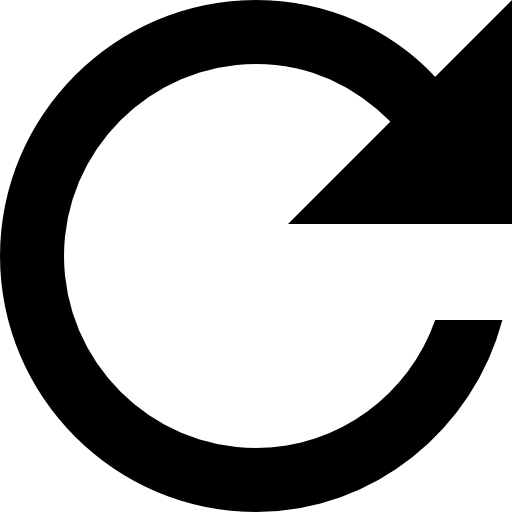
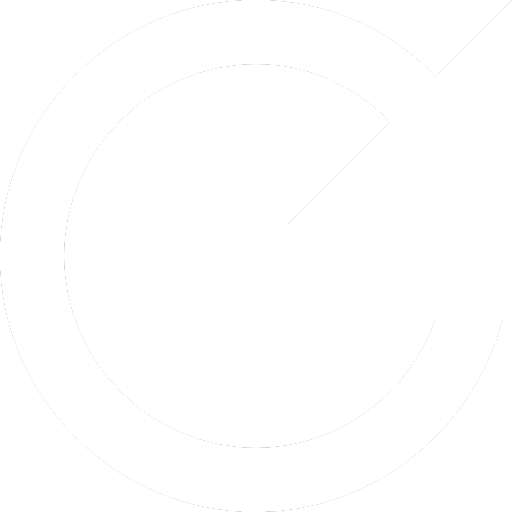
Всё та же кнопка

diff --git a/styles.css b/styles.css
@@ -188,15 +188,11 @@ body {
   content: "";
   width: 25px;
   height: 25px;
-  -webkit-mask-image: url("./refresh.png");
-          mask-image: url("./refresh.png");
-  background-color: white;
-  -webkit-mask-repeat: no-repeat;
-          mask-repeat: no-repeat;
-  -webkit-mask-size: contain;
-          mask-size: contain;
-  -webkit-mask-position: center;
-          mask-position: center;
+
+  background-image: url("./refresh.png");
+  background-repeat: no-repeat;
+  background-size: contain;
+  background-position: center;
 }
 
 .refresh:active {
